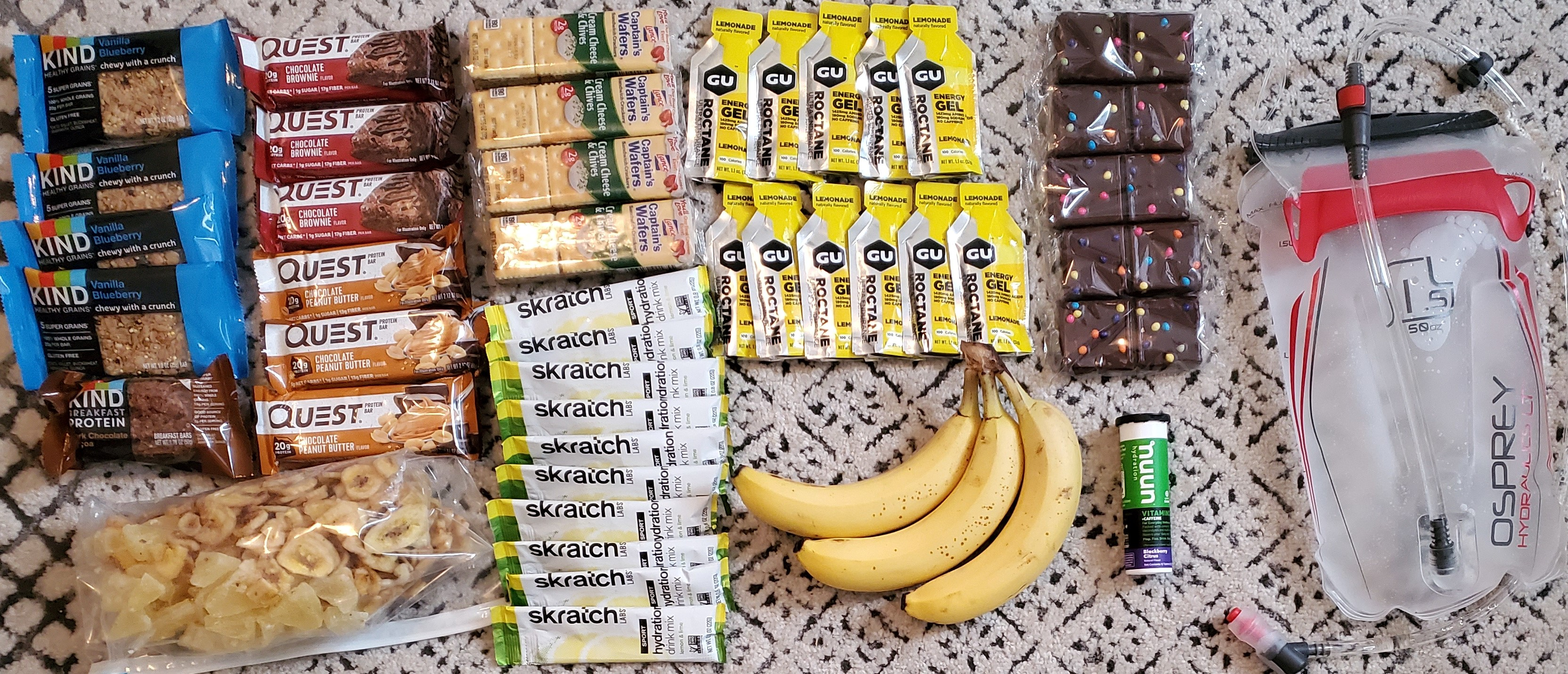
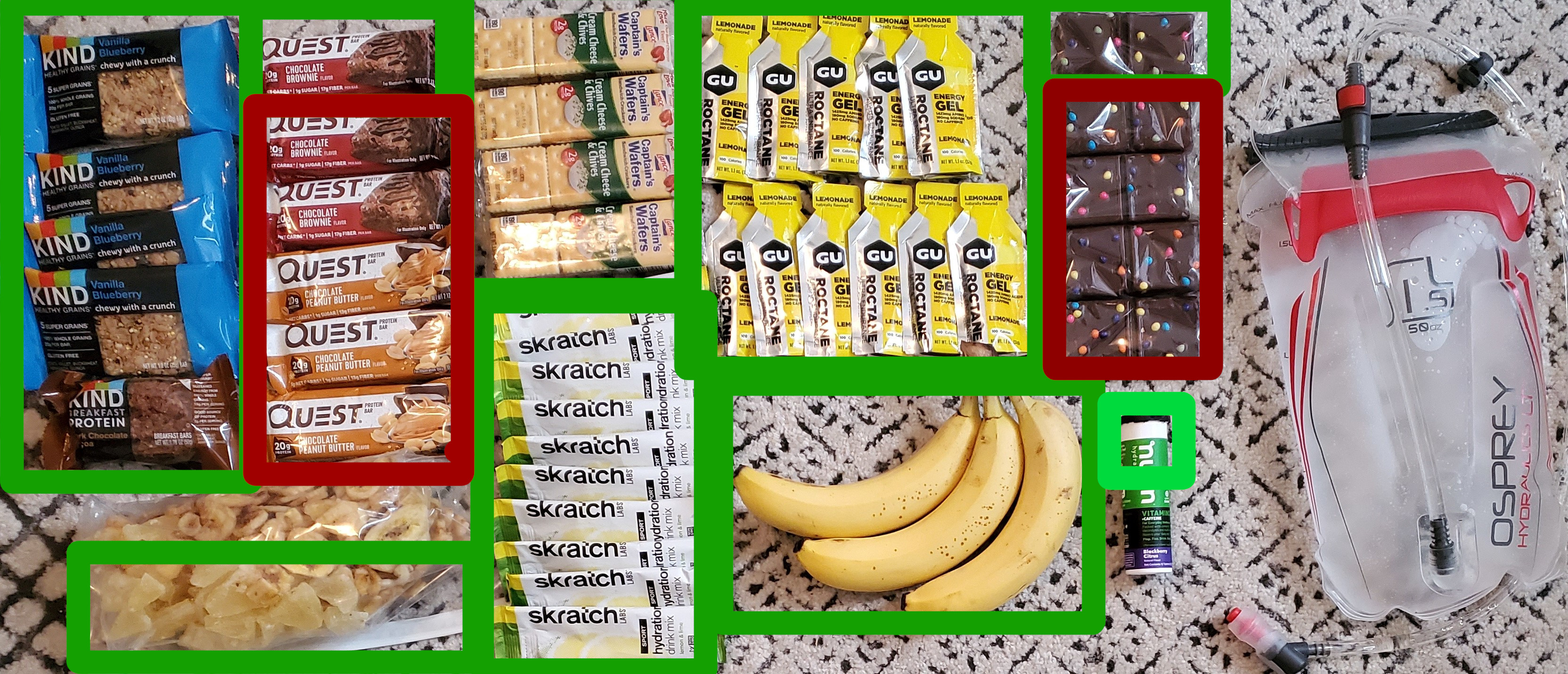
Initial Detail Guide

Changed region(s): [[0.0, 0.0, 0.8125, 1.0]]

diff --git a/Pitt-DC-Solo-1Day/DetailedGuide.md b/Pitt-DC-Solo-1Day/DetailedGuide.md
@@ -17,12 +17,12 @@ Upon my writing of this, I'm seemingly the 8th person to do the trip. Here is wh
 
 Looking at the fastest known time site led me to the above info.
 
-Heres where my novice status really comes through. I was unaware of the difference between self-supported and unsupported. Self-supported is stopping to buy food and snacks and anything else along the way, unsupported is carrying everything you need except publicly available naturally sourced water. I could have done this ride unsupported, it would have been slightly worse, but it could have been done. From deeper analysis I'll break things into 2 catagories.
+Heres where my novice status really comes through. I was unaware of the difference between self-supported and unsupported. Self-supported is stopping to buy food and snacks and anything else along the way, unsupported is carrying everything you need except publicly available naturally sourced water. This is as described by the FastestKnownTime website which caters to hikers and runners, but I figured I'd use these classifications here. I could have done this ride unsupported, it would have been slightly worse, but it could have been done. I also think for a fastest time, you might as well carry everything anyways. For deeper analysis I'll break things into 2 catagories.
 
 - T0 -> an all out fastest possible time solo **un**-supported, I would have liked to have gone for this in the first place but lesson learned.
 - T1 -> shooting for sub 24 solo **self**-supported, This seems to be the goal of most and as Shue stated something like millions could do it. 
 
-## Training
+### Training
 
 I'll be the first to admit I am not a cyclist in the most sinere way. I've always biked in huge bursts where I take it extremely seriously for 4-6 months and then stop riding for a year. I've been trying to get more consistent but no matter what your background is, doing this trip means you need to ride. You need to ride A LOT.
 
@@ -53,8 +53,97 @@ Here are the pieces of data for riding history for the above riders who had stra
 ![](Images/KevinB.png)
 
 
-OK OK OK before you start into how I didnt train properly I was doing a very strict very significant lifting routine for November through February. This taught me a whole slew of things that I didnt know before, I'll get into this later. The main point is, while it looks like I wasnt biking. I was staying extremely on top of my fitness through the winter, and I had biked a similar summer the year prior. So I wasnt completely unprepared. But yeah the rest of these guys are legends.
+OK OK OK before you start into how I didnt train properly I was doing a very strict, very significant lifting routine for November through February. This taught me a whole slew of things that I didnt know before, and prepared me a lot more than I realized to do this ride. I'll get into this later. The main point is, while it looks like I wasnt biking. I was staying extremely on top of my fitness through the winter, and I had biked a similar amount of miles in the summer the year prior. So I wasnt completely unprepared. But yeah the rest of these guys are legends.
 
-Things to note. Chris de
+Things to note. The highlighted bar is the week of the route. I had to splice annual charts for Chris to make it fit correctly. These guys bike. This is not a thing you can just reach out and do. You have to put in the miles. You have to know how to do big time mileage and you need to be comfortable with some semblance of training. They're in order of completion (I think).
+
+Have a look at Sean's preparation. He's scaling up into enourmous mileage and he was riding weekly through the winter (are you riding weekly through the winter? well you better pick it up then). Then check out Chris, he's got some monster randonneuring experience earlier in the year having done even more miles during a week 6 weeks ahead of this solo ride. These guys put in a ton of biking to be prepared, and were familiar with the task at hand. Spencer is a triathlete machine. His output put fear into me everytime I opened strava. Casual 80mi morning rides with 9mi runs in the evenings. Come on man. And Aedan having a constant output year round, knocking out 200+ mile weeks in February? What I'm getting at is if you're thinking about doing this ride and you arent making 150mi weeks the norm you are probably not pushing out enough hours of cycling. Ok Kevin, but what about you, why dont I just copy you so I dont have to spend 6+ months training. Because I have some unique history that gave me a boost. I had previously done a cross country solo bike tour... without really knowing what I was doing and not really knowing how to camp. It was a disaster, but through this disaster came a lot of understanding of my limits and what breaks me. So while I wasnt spending a lot of time on my bike in comparison, I knew I had the legs to get me through, and I knew exactly what was going to stop me. I spent all my energy learning about how to stop myself from hitting any walls along the way. In retrospect should I have trained more, yeah sure. Its easy to say you should have trained more. But was that my biggest failing? probably not. Also almost every mile of my training was on the GAP, I became extremely familiar with the entire 145 miles and while that doesnt seem like much of a help, knowing exactly how to manage your first 8 hours helps smooth things over greatly. Also, there is a lot of room for improvement in other areas outside of training. Its less about fitness than it seems on the surface.
+
+# T0
+
+Scale up your riding to 250+ miles a week (Hey I said this was going to be all out). Do almost all of your riding on the Gap or C&O. If you dont have access then find something as similar as possible. Work through every single step of your water and hydration needs. Take notes on how hot it was, how much water did you drink per mile? per hour? After your ride did you weigh significantly less than you did before you left? You feel pretty good after a ride even if you're severly dehydrated. That doesnt really set in unless you're on the longer rides.
+
+Use your long rides to the fullest. These are your safe test cases. Pack all your bags, put them on your bike and go do a 200 mile ride with a heart rate monitor. Was your pacing on point? How much water did you need? Will you need to have even more water on board? Is there a certain threshold of heat or humidity that changes your game in a severe way? These are the things to sort out.
+
+I'd recommend at least two 200+ rides in preparation. I'd do 1 on the Gap and 1 on the C&0, preferably the starting from the point in pittsburgh for the gap ride and ending at mile marker 0 for the c&o ride. This will get you familiar with the starting and ending points which will free you up to focus on just the cycling when it comes time. Fully load your bike, execute your plan of no stopping except for water. Practice eating on the bike. This comes up in the next section but you need to completely understand how many calories you are actually burning. The best way to do this is to track every calorie on and off the bike and compare mileage from week to week. You'll get a rough estimate of how many calories cycling costs. Sprinkle in normal road cycling if you want, but I'm making this plan as if your entire life revolves around doing this GAP + C&O ride as fast as possible.
+
+I will admit when it comes to training I'm not a super reliable source for information. I tend to get good results from "bike as hard as possible as much as possible when you feel like it." I've gotten better at taking rest days or 3 when something was feeling off. Getting max efforts and max data out of your rides goes a long way. Some may disagree and prefer a more 40 miles a day at race pace stratagy, but bursty big rides seemed to work for me.
+
+# T1
+
+Scale your riding to at least 150 miles a week. You need to feel comfortable on your seat and you need to be very confident in your body positioning. The miles will come with time. The longer you can be riding at 150+ the easier this will be. Your pace needs to be quick but not fast. You have time to stop and rest so practice timing your stops. Learn what it really means to stop for 5 minutes. Go bike 30 miles without stopping, set a timer for 5 minutes and get back on and ride home. Then think about doing that 5-6 more times. Does that seem unreasonable? Why? Work through those answers as you build up miles and consistency with your pace. I'd recommend getting a lot of miles on the gap. Also it would be good to get some practice stopping at sheetz. Like the stop in Connellsville or any other small towns. If you can know how to get to and from the trail efficiently as well as get in and out as fast as possible that would be great. If you're riding with a friend knowing who will get in line and who will refill waters and such would be good to plot out as well.
+
+Another thing about practicing your stops is you'll want to know when to bail. If you get to a spot and you really need food, you might have to suck it up and wait the 20 minutes at a busy gas station. To avoid this you will want to know when to order food, when to grab a energy drink and go, and when to just abandon ship and get back to the trail. You should plan your stops ahead of time, but always have enough supplies to make it to the next one so you're flexible enough to skip some long lines if need be.
+
+I would highly recommend getting at least some miles on the C&O before making a go of it. Its quite a different animal and will certainly slow you down.
+
+### Nutrition
+
+First you're going to want to know exactly what food you will want to take, this will come with training. You will learn what you do and dont like to eat, and espeically what you dont like to eat after 100 miles. Your tastes change pretty significantly based on how much you're working and sweating and a lot of times I'd be really put off by something that I usually love and start day dreaming of some obscure salty snack or whatever. Its a matter of honing in on what you like and then how you manage eating it. A good portion of the food I took I ended up not eating, I had expected to be more interested in some stuff but couldn't stomach it. You should be practicing all of this on every single ride.
+
+Heres a list of what I took, it was enough calories, but I didnt finish a lot of it.
+
+![](Images/Food.jpg)
+
+- 5x Cosmic brownies (love these, pack alright, high calories)
+- 12x GU without caffeine (Picked these up just for the trip, needed more easy to eat calories and they were a life saver)
+- 3x Banana (classic, put em in my jersey to start off)
+- 1x Nuun tablets (40mg caffeine and vitamins, just figured itd - be something other than scratch)
+- 10x Scratch (put in every bottle I had until I was out)
+- 4x Creme Cheese and Chives (favorite crackers)
+- 6x Quest protein bars (pretty regular thing for me to eat)
+- 1x Massive mixed bag of banana/pineapple chunks
+- 5x Kind bars (pretty regular riding food for me)
+
+Everything in green I ate, the red were some pretty bad sticking points worth mentioning. The protein bars were the worst, it was like my body knew it was fake sugar and didn't want any part of it. The cosmic brownies were also tough to stomach. I used to like eating them but I think those rides were a bit less strenuous.
+
+I started off with the GU in a cup holder bag along with some salt tablets that are not pictured. I tried to eat a salt tablet every 2 hours or so during the day in addition to the food in order to make up for the sweat. I sweat a lot. The crackers were awesome, but kinda hard to eat. The dryness makes it pretty easy to breathe cracker dust in, but man I just love these crackers. I also burned through the kind bars pretty quick.
+
+My first few hours were:
+- Banana + Kindbar + Scratch
+- Banana + Crackers + Scratch
+
+When the bananas ran out I switched to other foods. But would have liked to have stuck with that rotation. The GU was amazing but I saved it for much later when I didnt feel like chewing.
+
+In retrospect I would have done twice as many kind bars and crackers 6 more GU and cut the protein and brownies. It would have been nice to have more bananas but they're hard to carry and pack. Also more scratch would have been nice, I didnt like the Nuuns I took when I got to that point. I also should have made little bags of the pineapple and the bananas. I only had one big bag which meant I could only have them during stops.
+
+I think my carb limit is about 100g of carbs / hour. But I only averaged like 60g of carbs / hour for the whole trip.
+
+I also forced fluids the entire time. The only way I knew I was hydrating properly was if I was peeing. My strategy was "Do I have to pee? no -> drink gulp of water, yes -> drink sips of water." Then I held my pee as long as I could to avoid unneeded stops (at least at the beginning when I wasnt constantly stopping).
+
+Another thing to note is I hit breakfast pretty hard, I had 3 eggs, 3 pieces of toast, a monster of a PB&J and as much gatorade as I could chug. I wanted to be bursting with sugar at the start. More on this in the execution section.
+
+At my only stop I ate a rice crispy treat and 3 chicken wraps. I then picked up 2 Monster Maxx cans. I drank 1, but I shoud have picked up more cans because this ended up being basically the end of my caffeine, which was rough.
+
+# TO
+
+You have to know **everything** about what you will need. You're going to pack in all food and not stop anywhere, so you need the exact amount of calories with a little buffer. You cant underestimate. You will want to track every calorie during your training along with your weight. Use any tracking app but use it constantly. Before and after rides weigh yourself. You'll want to be trying to get your pre-ride weight into a narrow enough window and make sure you're finishing at the same weight (meaning you're not losing water). This will let you know exactly how much water to be drinking. 
+
+Then take the number of miles you do per week and divide by the number of calories. Or subtract off your basal metabolic amount from each day if you can get it close. Again you'll want to over estimate on how many calories you burn on the bike but there is an upper limit to how much your body can absorb. Assuming you havent been losing weight and assuming you're able to keep decent track of all calories, you should now know about how many calories you burn per mile and also per hour. Using these values you can estimate your need for your bike trip.  The vast majority of your intake should be carbs and you should not be letting a single 30 minute block pass without eating something. 
+
+My biggest piece of advice here is to really really know what you like and give yourself options. If you like 6 foods, take ample amounts of all 6 and then force yourself to eat the ones you arent feeling as much at the beginning. At the end you're going to be depending on the GU or whatever is easiest.
+
+Also consider how you're going to do caffeine. I find it hard to imagine you're reading this and also a person who doesnt drink a lot of coffee or whatever. You'll need to sort out exactly how you'll dose this out, this seems like a pretty personal thing so I'll leave this up to you
+
+# T1
+
+I'd recommend if you're trying to do a sub 24 to limit the amount of stuff you're carrying. Just bring a bit more than you need to accomplish the miles to the next stop. I'd also recommend carrying enough to make it to the next stop incase you have an issue and need to skip a town, plus it opens up your options a little. The best thing you can do is really really understand your stops. You'll be able to comfortably pick up food at your stops so just know what you'll want as you approach. Then know how to get to and from your stops correctly.
+
+The above T0 information won't be a important because you'll have the options to refuel as needed during these pit stops and that should really help smooth out your riding. I would recommend doing some practice stops in training and timing them out. Find out what an average stop is for you and then make sure you arent scheduling too many for you to make it in by the 24 hour mark. They add up super quick. A 15 minute stop is very very easy to do, 25 minutes will sneak up on you really quick. 4 towns at 25 minutes will pretty much ruin your chances. You'll want to keep tabs on it during the ride to see if you'll need to skip a stop. Also dont go too wild with the food. Sometimes having so many options will be dangerous, you'll get a little too aggressive with "I love spicy cheese chips" or whatever, but then an hour later be suffering with an upset stomach. So know your limits and do what you need to do.
+
+### Gear List
+
+![](Images/Gear.jpg)
 
 
+### Bike Setup
+
+![](Images/BikeSetup.jpg)
+
+### Route Planning / Weather Considerations
+
+// windy app
+
+![](Images/Windy.png)
+
+### Execution
